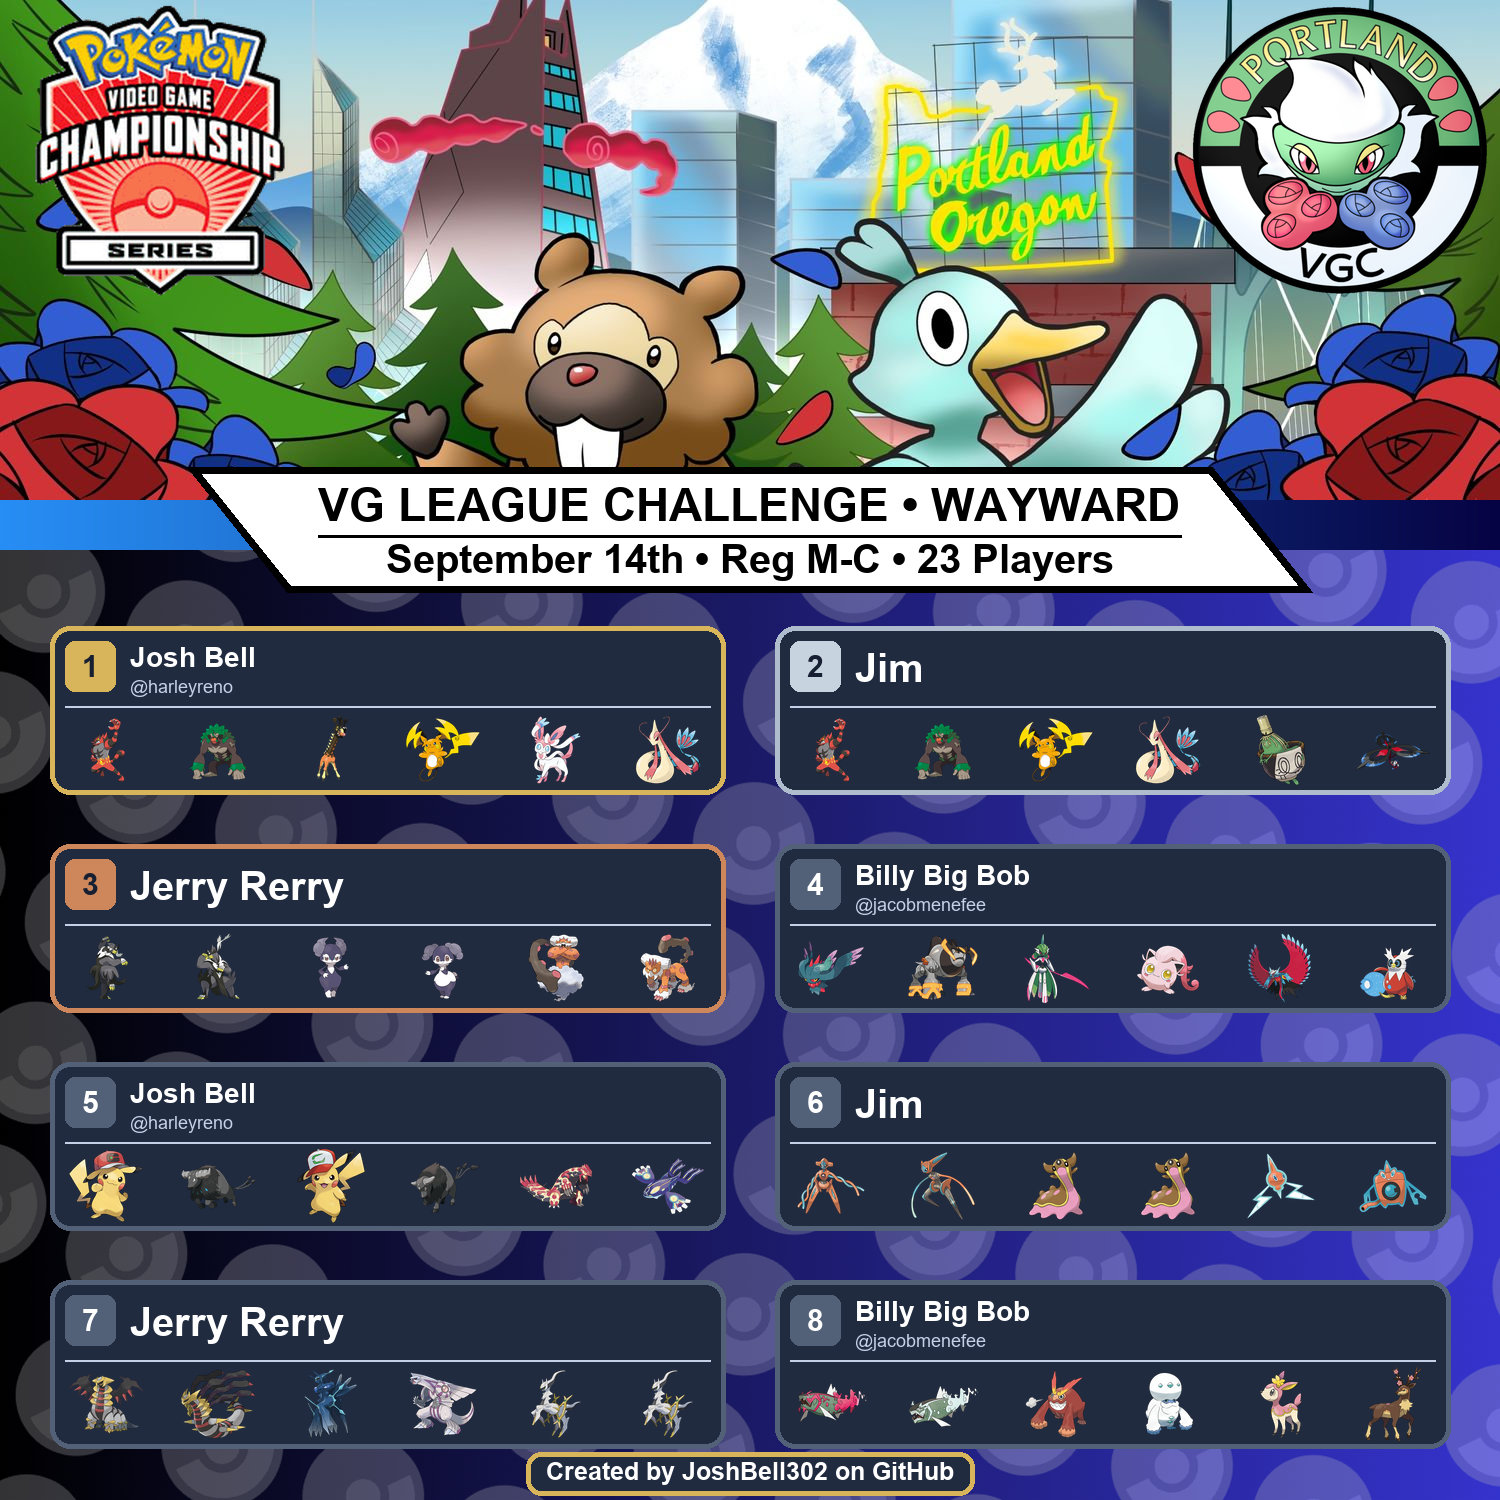
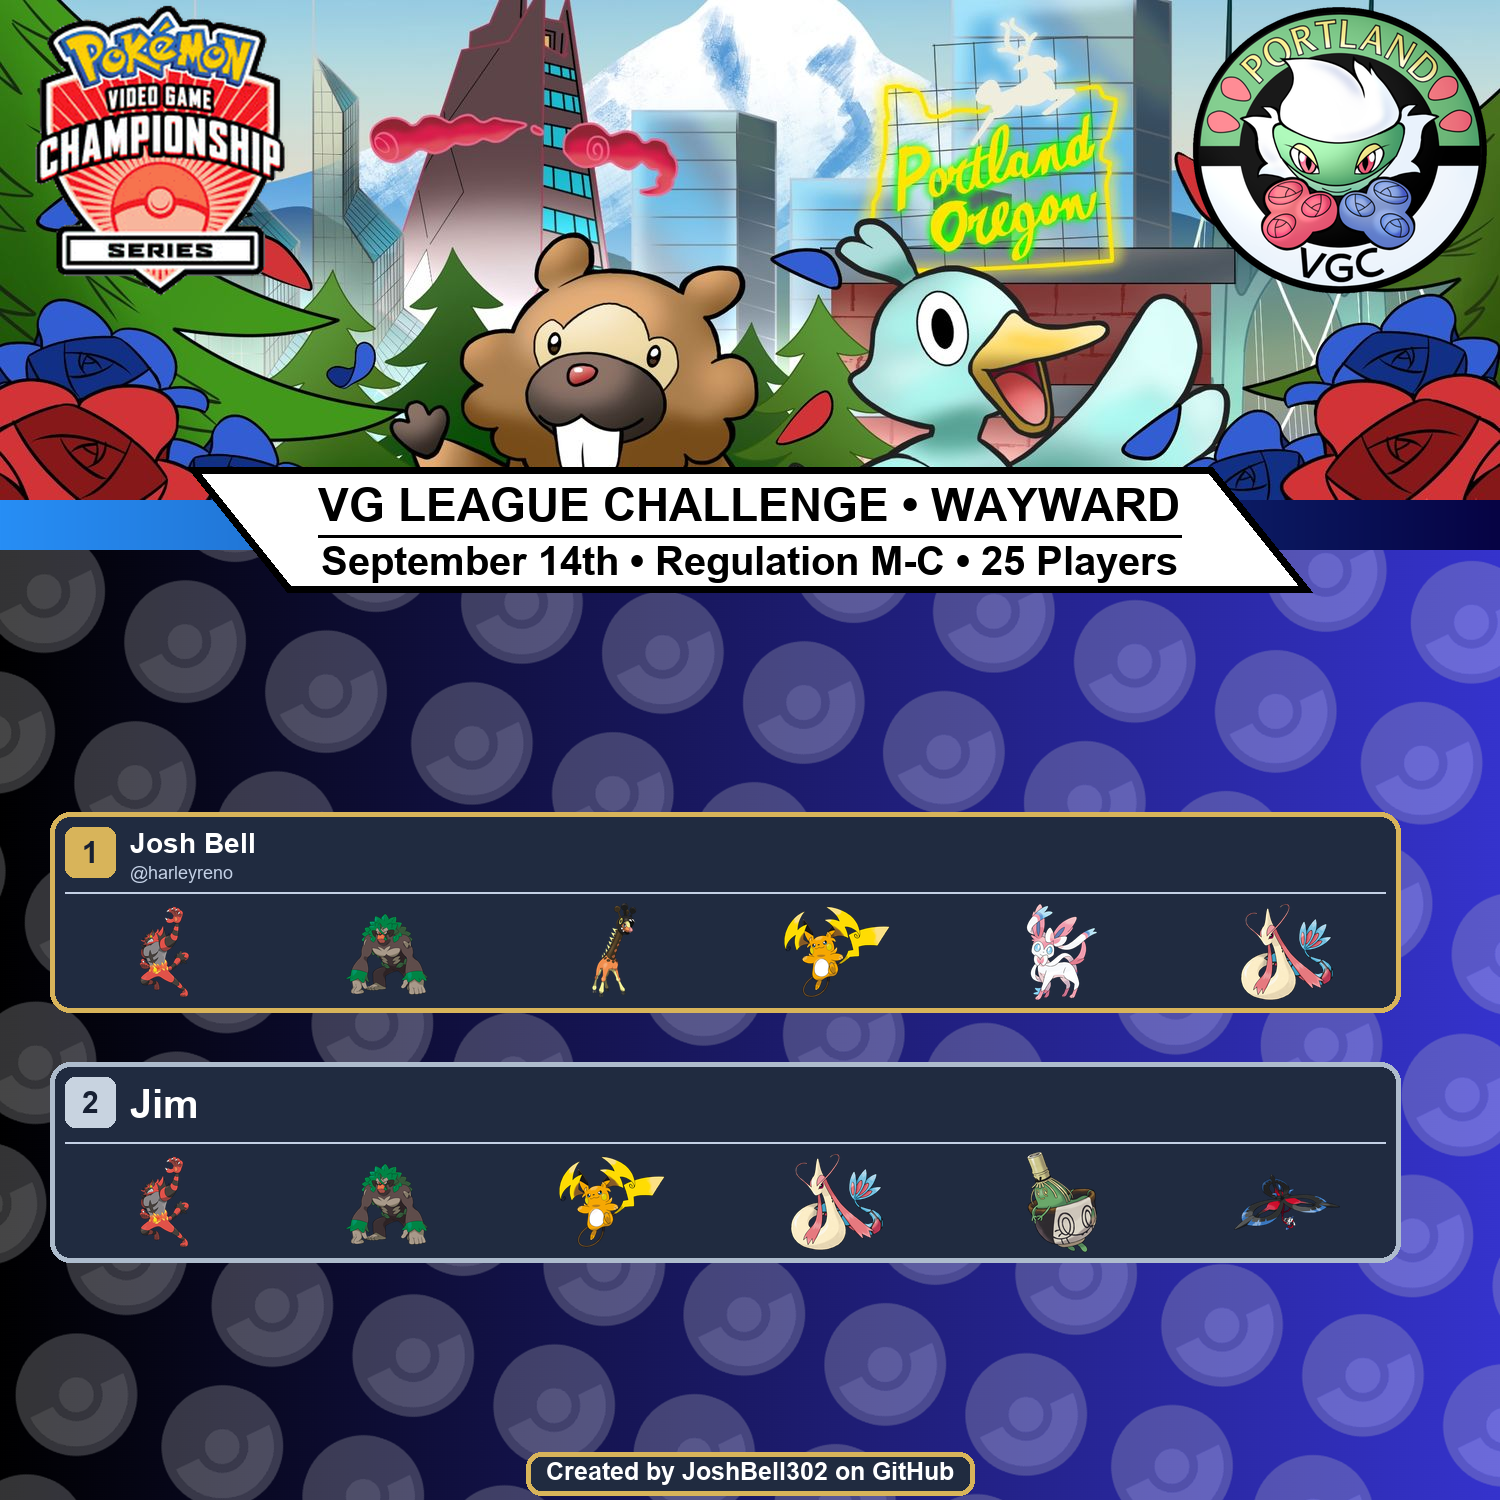
Added Local Class
Added the Local variable to better track and organize the information for a local

Changed region(s): [[0.0307, 0.3373, 0.9813, 0.6747], [0.0307, 0.7053, 0.9813, 0.9813]]

diff --git a/generate_standings.py b/generate_standings.py
@@ -61,6 +61,35 @@ class Theme:
         self.color_1 = color_1
         self.color_2 = color_2
 
+class Local:
+    challenge: bool
+    cup: bool
+    date: str
+    location: str
+    regulation: str
+    player_count: int
+
+    def __init__(self, challenge, cup, location, date, regulation, player_count):
+        self.challenge = challenge
+        self.cup = cup
+        self.location = location
+        self.date = date
+        self.regulation = regulation
+        self.player_count = player_count
+
+    def print_standings_location(self):
+        if self.challenge and not self.cup:
+            event_type = "CHALLENGE"
+        elif self.cup and not self.challenge:
+            event_type = "CUP"
+        else:
+            event_type = "LOCAL"
+        return f"VG LEAGUE {event_type} • {self.location.upper()}"
+
+    def print_standings_info(self):
+        return f"{self.date} • Regulation {self.regulation} • {self.player_count} Players"
+
+
 # -- Globals --------------------------------------------------------------------------------------
 
 POKEAPI_URL = "https://pokeapi.co/api/v2"
@@ -305,6 +334,8 @@ STANDINGS_CARD_BORDER = 5
 STANDINGS_PLACING_BADGE_SIZE = 50
 STANDINGS_PLACING_BADGE_BORDER = 15
 STANDINGS_PLACING_BADGE_RADIUS = 10
+STANDINGS_INFO_DROP = 2
+
 TRAINER_NAME_WITH_HANDLE_SIZE = 28
 TRAINER_HANDLE_SIZE = 18
 TRAINER_NAME_AND_HANDLE_BORDER = 7
@@ -474,7 +505,7 @@ def draw_horizontal_gradient(image, y, height, color1, color2):
     # Once the gradient is made paste it onto the image given
     image.paste(gradient, (0, y))
 
-def draw_title(image, header_height, location, info):
+def draw_title(image: Image, header_height, local: Local):
     # Get the dimensions of the main standings image
     image_width = image.width
 
@@ -513,7 +544,7 @@ def draw_title(image, header_height, location, info):
     while(location_verification):
         # Prepare the textbox to add
         location_font = ImageFont.truetype("arialbd.ttf", location_font_size)
-        textbox_location = draw.textbbox((0,0), location, font=location_font)
+        textbox_location = draw.textbbox((0,0), local.print_standings_location(), font=location_font)
 
         # Check to see if the location portion will fit confetably in the rhombus
         if ((textbox_location[2] - textbox_location[0]) >= (rhombus_width-(RHOMBUS_WIDTH_DIFFERENCE * 2) - RHOMBUS_TEXT_SIDE_BORDER)):
@@ -531,7 +562,7 @@ def draw_title(image, header_height, location, info):
     # Draw the Location text in the Rhombus
     draw.text(
         (location_text_x, location_text_y + RHOMBUS_TEXT_VERTICAL_BORDER),
-        location,
+        local.print_standings_location(),
         font=location_font,
         fill="black"
     )
@@ -554,7 +585,7 @@ def draw_title(image, header_height, location, info):
     while(info_verification):
         # Prepare the textbox to add
         info_font = ImageFont.truetype("arialbd.ttf", info_font_size)
-        textbox_info = draw.textbbox((0,0), info, font=info_font)
+        textbox_info = draw.textbbox((0,0), local.print_standings_info(), font=info_font)
     
         # Check to see if the info portion will fit confetably in the rhombus
         if ((textbox_info[2] - textbox_info[0]) >= (rhombus_width-(RHOMBUS_WIDTH_DIFFERENCE * 2) - RHOMBUS_TEXT_SIDE_BORDER)):
@@ -571,8 +602,8 @@ def draw_title(image, header_height, location, info):
     
     # Draw the Info text in the Rhombus
     draw.text(
-        (info_text_x, info_text_y + (RHOMBUS_TEXT_VERTICAL_BORDER * 2)),
-        info,
+        (info_text_x, info_text_y + (RHOMBUS_TEXT_VERTICAL_BORDER * 2) + STANDINGS_INFO_DROP),
+        local.print_standings_info(),
         font=info_font,
         fill="black"
     )
@@ -843,11 +874,18 @@ def draw_standings(image, filename="standings.csv"):
 if __name__ == "__main__":
     filename="standings.png"
     standings_image, header_height = draw_theme(theme=THEMES["Portland - Dark"])
+    local_object = Local(
+        challenge=True, 
+        cup=False,
+        location="wayward",
+        date="September 14th",
+        regulation="M-C",
+        player_count=25
+    )
     draw_title(
         image=standings_image, 
         header_height=header_height,
-        location="VG LEAGUE CHALLENGE • WAYWARD",
-        info="September 14th • Reg M-C • 23 Players"
+        local=local_object
     )
     draw_standings(standings_image)
     draw_signature(standings_image)
